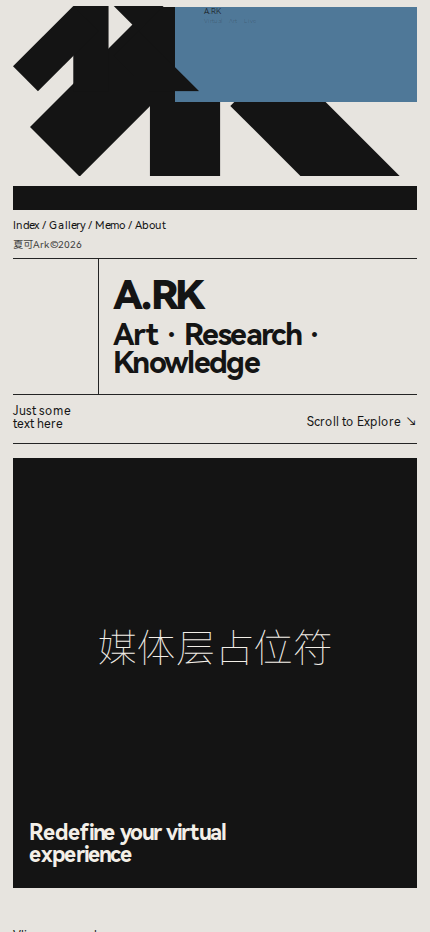
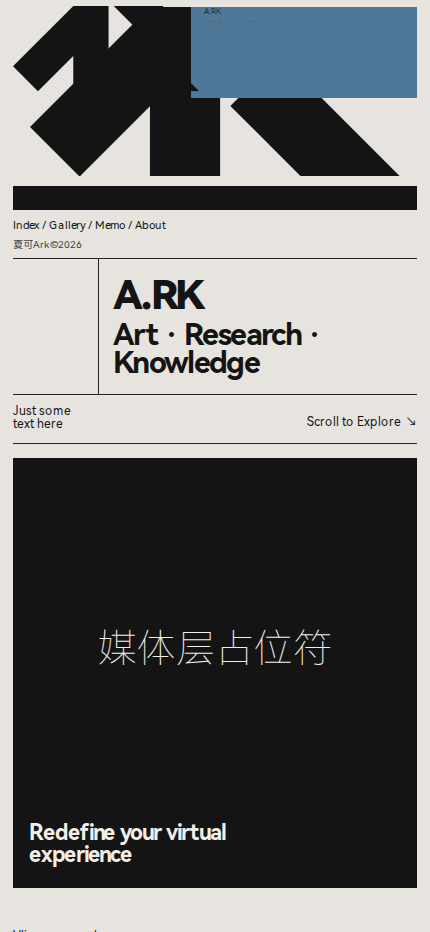
feat: probe mobile hero mark/media sizing at <=640 breakpoint

Changed region(s): [[0.393, 0.0, 0.9674, 0.1245]]

diff --git a/PLAN.md b/PLAN.md
@@ -56,6 +56,18 @@
 ## Status Log
 ### 2026-04-21
 - Completed:
+  - 在 `<=640` 下执行 hero 局部参数试探：主标记宽度/位置与蓝色块宽度高度微调，验证 430 顶区对参数变化的敏感性。
+  - 完整复跑 check/verify 并刷新固定审图集，记录本轮 430 指标轻微回退（17.09% -> 17.40%）。
+- Next:
+  - 回滚本轮移动端试探并改用“仅调 mini-lockup 与 band 高度”的小步实验，避免放大主形体导致偏移。
+  - 继续保持 desktop 参数稳定，优先分离移动端与桌面端的独立收敛策略。
+- Blocked:
+  - 无真实阻塞；存在参数耦合导致单次改动容易回退。
+- Verification:
+  - `npm run check`
+  - `npm run verify:ark`
+
+- Completed:
   - 将 desktop hero 主标记左偏实验从 `-8%` 微调为 `-6%`，测试交叉点对位的敏感区间。
   - 复跑 check/verify 并刷新固定审图集，指标基本持平，确认当前调整尚未突破 desktop 差异瓶颈。
 - Next:
